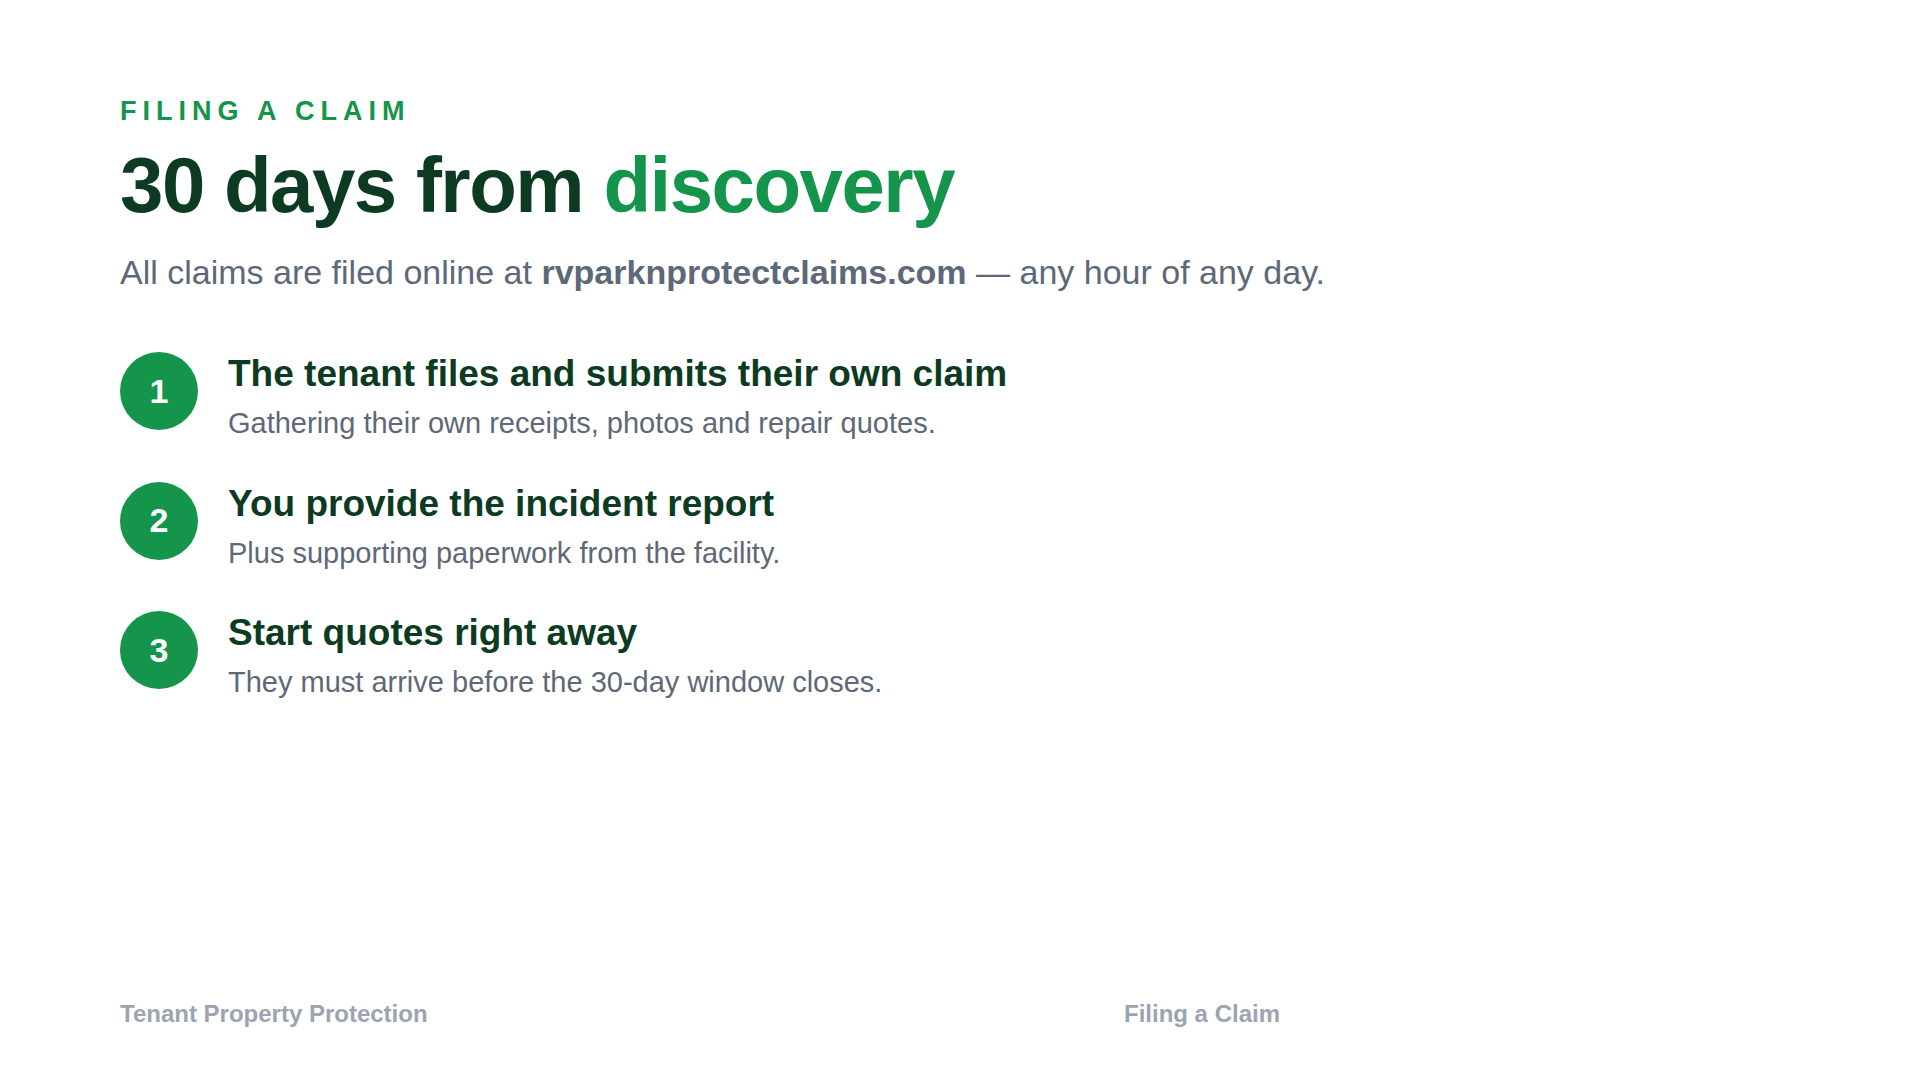
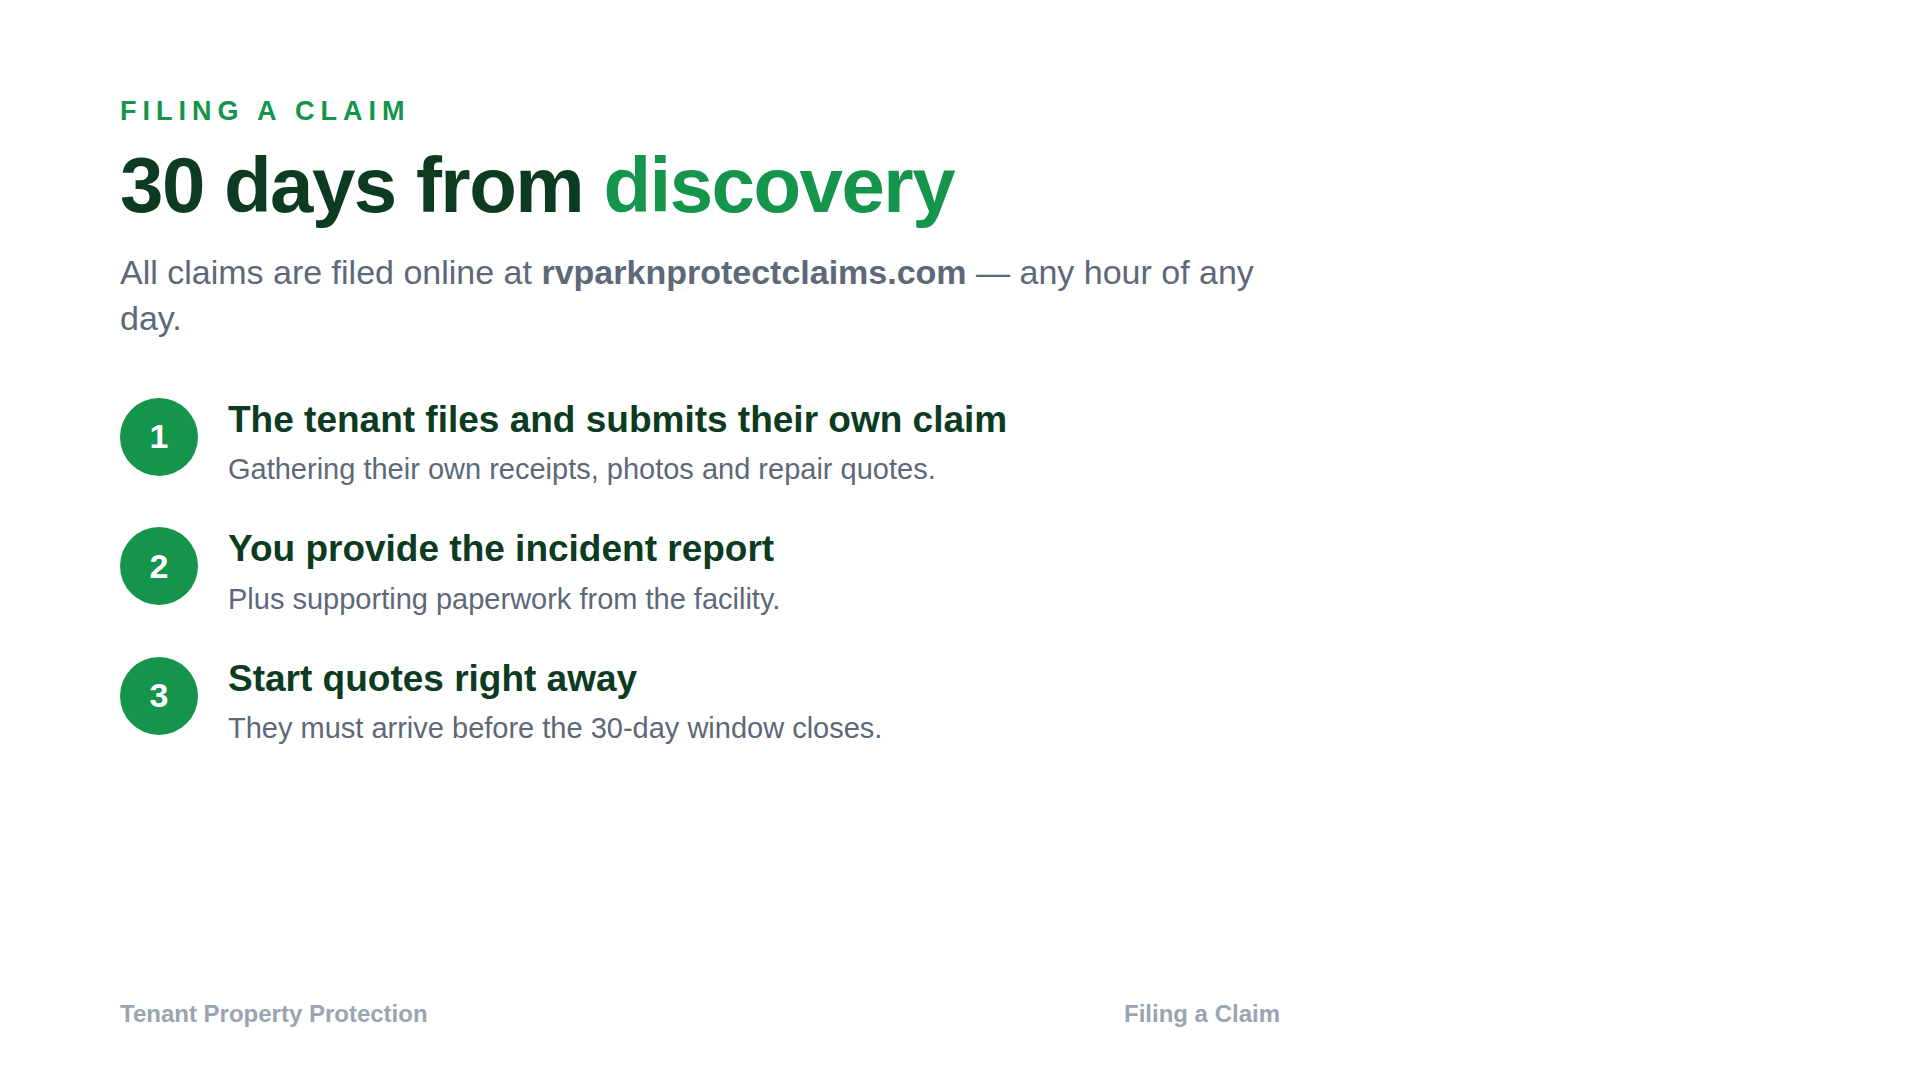
Keep the RV deck out of the presenter's column
The RV slides were laid out for a 33% presenter strip that was never the
final size: the text column ran to 1410px and a few elements — the
pricing table, the portal-access callout, the opt-out box — ran on to
1790px, straight under where the card sits. Every slide now stops at the
same 1280px line as the Secure deck, and tile grids are sized to exactly
three across the column rather than wrapping a third tile onto its own
row.

Also fixes the relocated renderer, which read one deck's name list for
the other; it now takes the numbered files in the folder it is given.

Claude-Session: https://claude.ai/code/session_01SVBeaJqqY1w1riJ9JWxQJ1

Changed region(s): [[0.0625, 0.275, 0.5312, 0.7028], [0.6562, 0.2444, 0.6875, 0.275]]

diff --git a/tools/slides/gen_rv.py b/tools/slides/gen_rv.py
@@ -28,7 +28,7 @@ tr:nth-child(even) td{background:#f7faf8}
 td.fee{color:#15944B;font-weight:800}
 .note{font-size:27px;color:#5d6878;margin-top:26px;line-height:1.4}
 .grid{display:flex;flex-wrap:wrap;gap:26px;margin-top:50px}
-.tile{width:368px;background:#f4f8f5;border-radius:18px;padding:30px 28px}
+.tile{flex:0 0 calc((100% - 52px)/3);min-width:0;background:#f4f8f5;border-radius:18px;padding:30px 28px}  /* exactly three across the 1160px text column */
 .tile b{display:block;font-size:31px;color:#0c3b22;margin-bottom:10px}
 .tile span{font-size:26px;color:#5d6878;line-height:1.3}
 .flag{margin-top:46px;background:#fff5d6;border-left:12px solid #e0b23c;border-radius:14px;

diff --git a/tools/slides/render_slides.py b/tools/slides/render_slides.py
@@ -1,7 +1,7 @@
-import asyncio, json, sys, pathlib
+import asyncio, sys, pathlib
 from playwright.async_api import async_playwright
 html_dir, out_dir = pathlib.Path(sys.argv[1]), pathlib.Path(sys.argv[2])
-names = json.load(open(html_dir.parent/'slide_names.json')) if (html_dir.parent/'slide_names.json').exists() else [p.stem for p in sorted(html_dir.glob('*.html'))]
+names = [p.stem for p in sorted(html_dir.glob('*.html'))]   # files are numbered, so sorted order is deck order
 async def main():
     async with async_playwright() as p:
         b = await p.chromium.launch(executable_path="/opt/pw-browsers/chromium")

diff --git a/tools/slides/gen_secure.py b/tools/slides/gen_secure.py
@@ -268,4 +268,4 @@ add('20-contact', f"""<img class='brand' src='{LOGO}'>
 out=pathlib.Path(os.path.dirname(os.path.abspath(__file__)))/'html-secure'; out.mkdir(exist_ok=True)
 for n,h in S: (out/f"{n}.html").write_text(h, encoding='utf-8')
 print("wrote", len(S), "slides")
-json.dump([n for n,_ in S], open(out.parent/'slide_names.json','w'))
+
